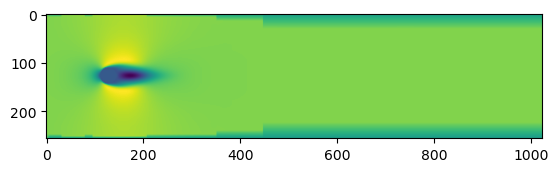
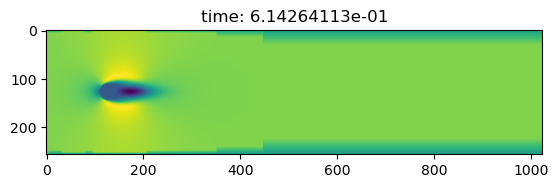
merge plot.py and zoom.py

diff --git a/deploy/plot.py b/deploy/plot.py
@@ -8,6 +8,10 @@ import sys
 def read(path):
     with open(path) as file:
         for line in file:
+            if re.match('^[ \t]*<Time Value="', line):
+                raw = re.sub('^[ \t]*<Time Value="', '', line)
+                raw = re.sub('".*\n$', '', raw)
+                time = float(raw)
             if re.match('^	  <DataItem Dimensions=.*Format="Binary"', line):
                 raw = re.sub('^[ \t]*<[^<]*>', '', line)
                 raw = re.sub('<.*\n$', '', raw)
@@ -17,11 +21,16 @@ def read(path):
                 break
     dirname = os.path.dirname(path)
     with open(os.path.join(dirname, raw), "rb") as file:
-        return np.ndarray((3, nx // 3, ny), 'float32', file.read(), order='F')
+        return time, np.ndarray((3, nx // 3, ny),
+                                'float32',
+                                file.read(),
+                                order='F')
 
 
-ux, uy, p = read(sys.argv[1])
+time, (ux, uy, p) = read(sys.argv[1])
+print(time, np.shape(ux))
 for name, field in zip(("ux.png", "uy.png", "p.png"), (ux, uy, p)):
+    plt.title("time: %.8e" % time)
     plt.imshow(field.T)
     plt.savefig(name, bbox_inches='tight')
     plt.close()

diff --git a/deploy/README.md b/deploy/README.md
@@ -24,6 +24,7 @@ Plot velocity and pressure fields
 
 ```
 $ python plot.py a.000000300.xdmf2
+0.6142641127864911 (1024, 256)
 ```
 
 open `ux.png`, `uy.png`, or `p.png`.
@@ -45,11 +46,10 @@ $ ./cylinder -z 1024 -r 100 -l 10 -p 100
 ```
 
 ```
-$ python zoom.py z.000000300.xdmf2
-0.6139892145202194 (1024, 1024)
+$ python plot.py z.000000300.xdmf2
+0.6142641127864911 (1024, 1024)
 ```
 
 open `ux.png`, `uy.png`, or `p.png`.
 
 <p align="center"><img src="img/z.ux.png"/></p>
-
